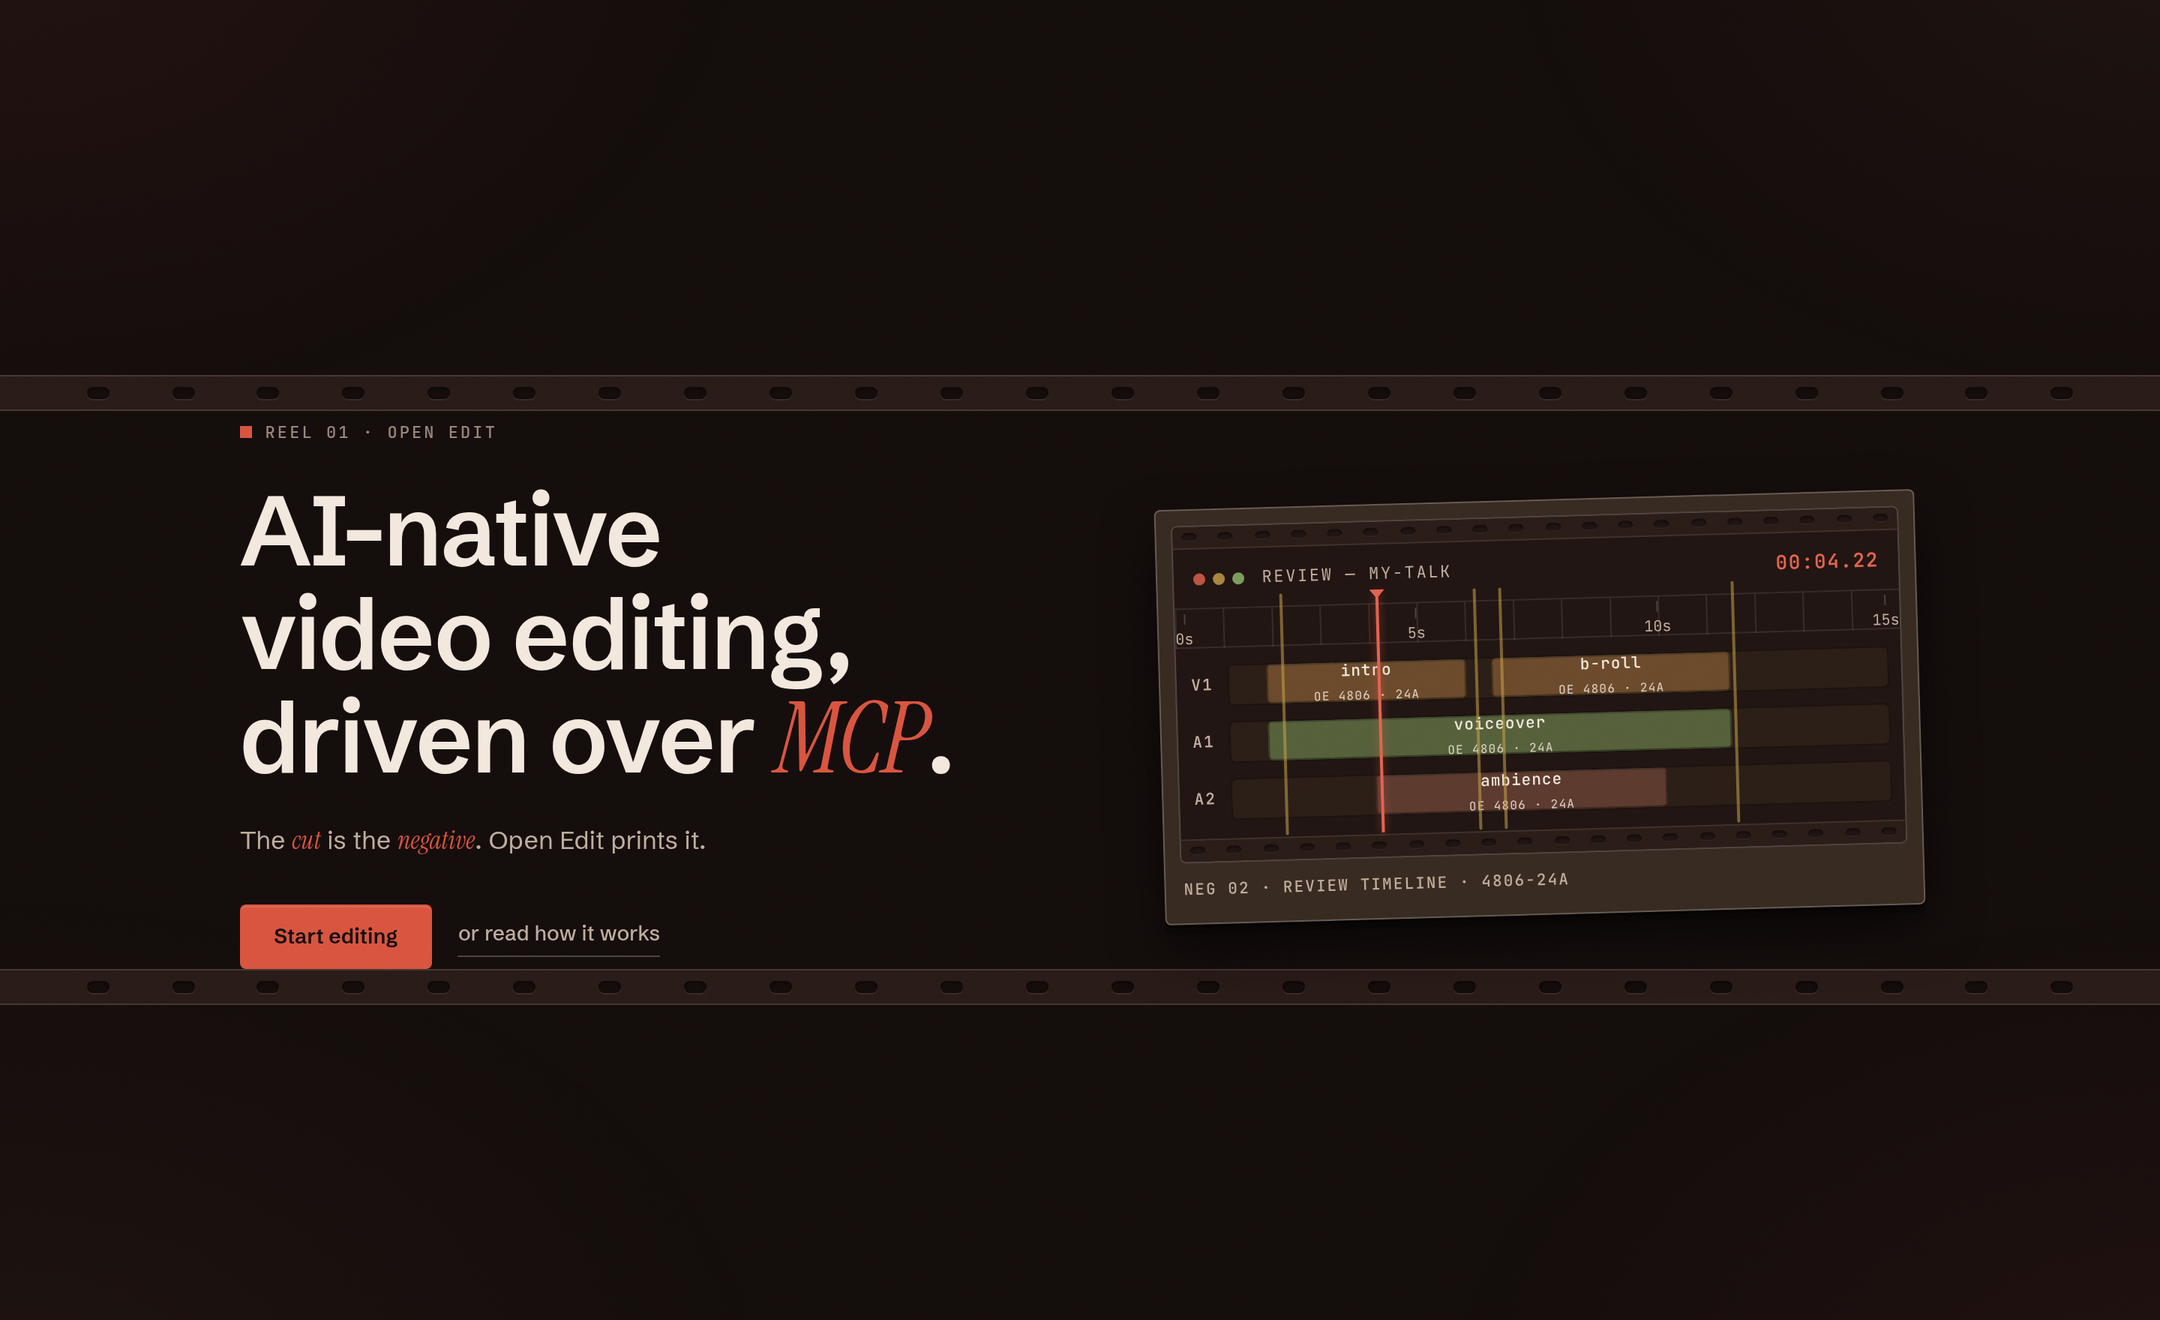
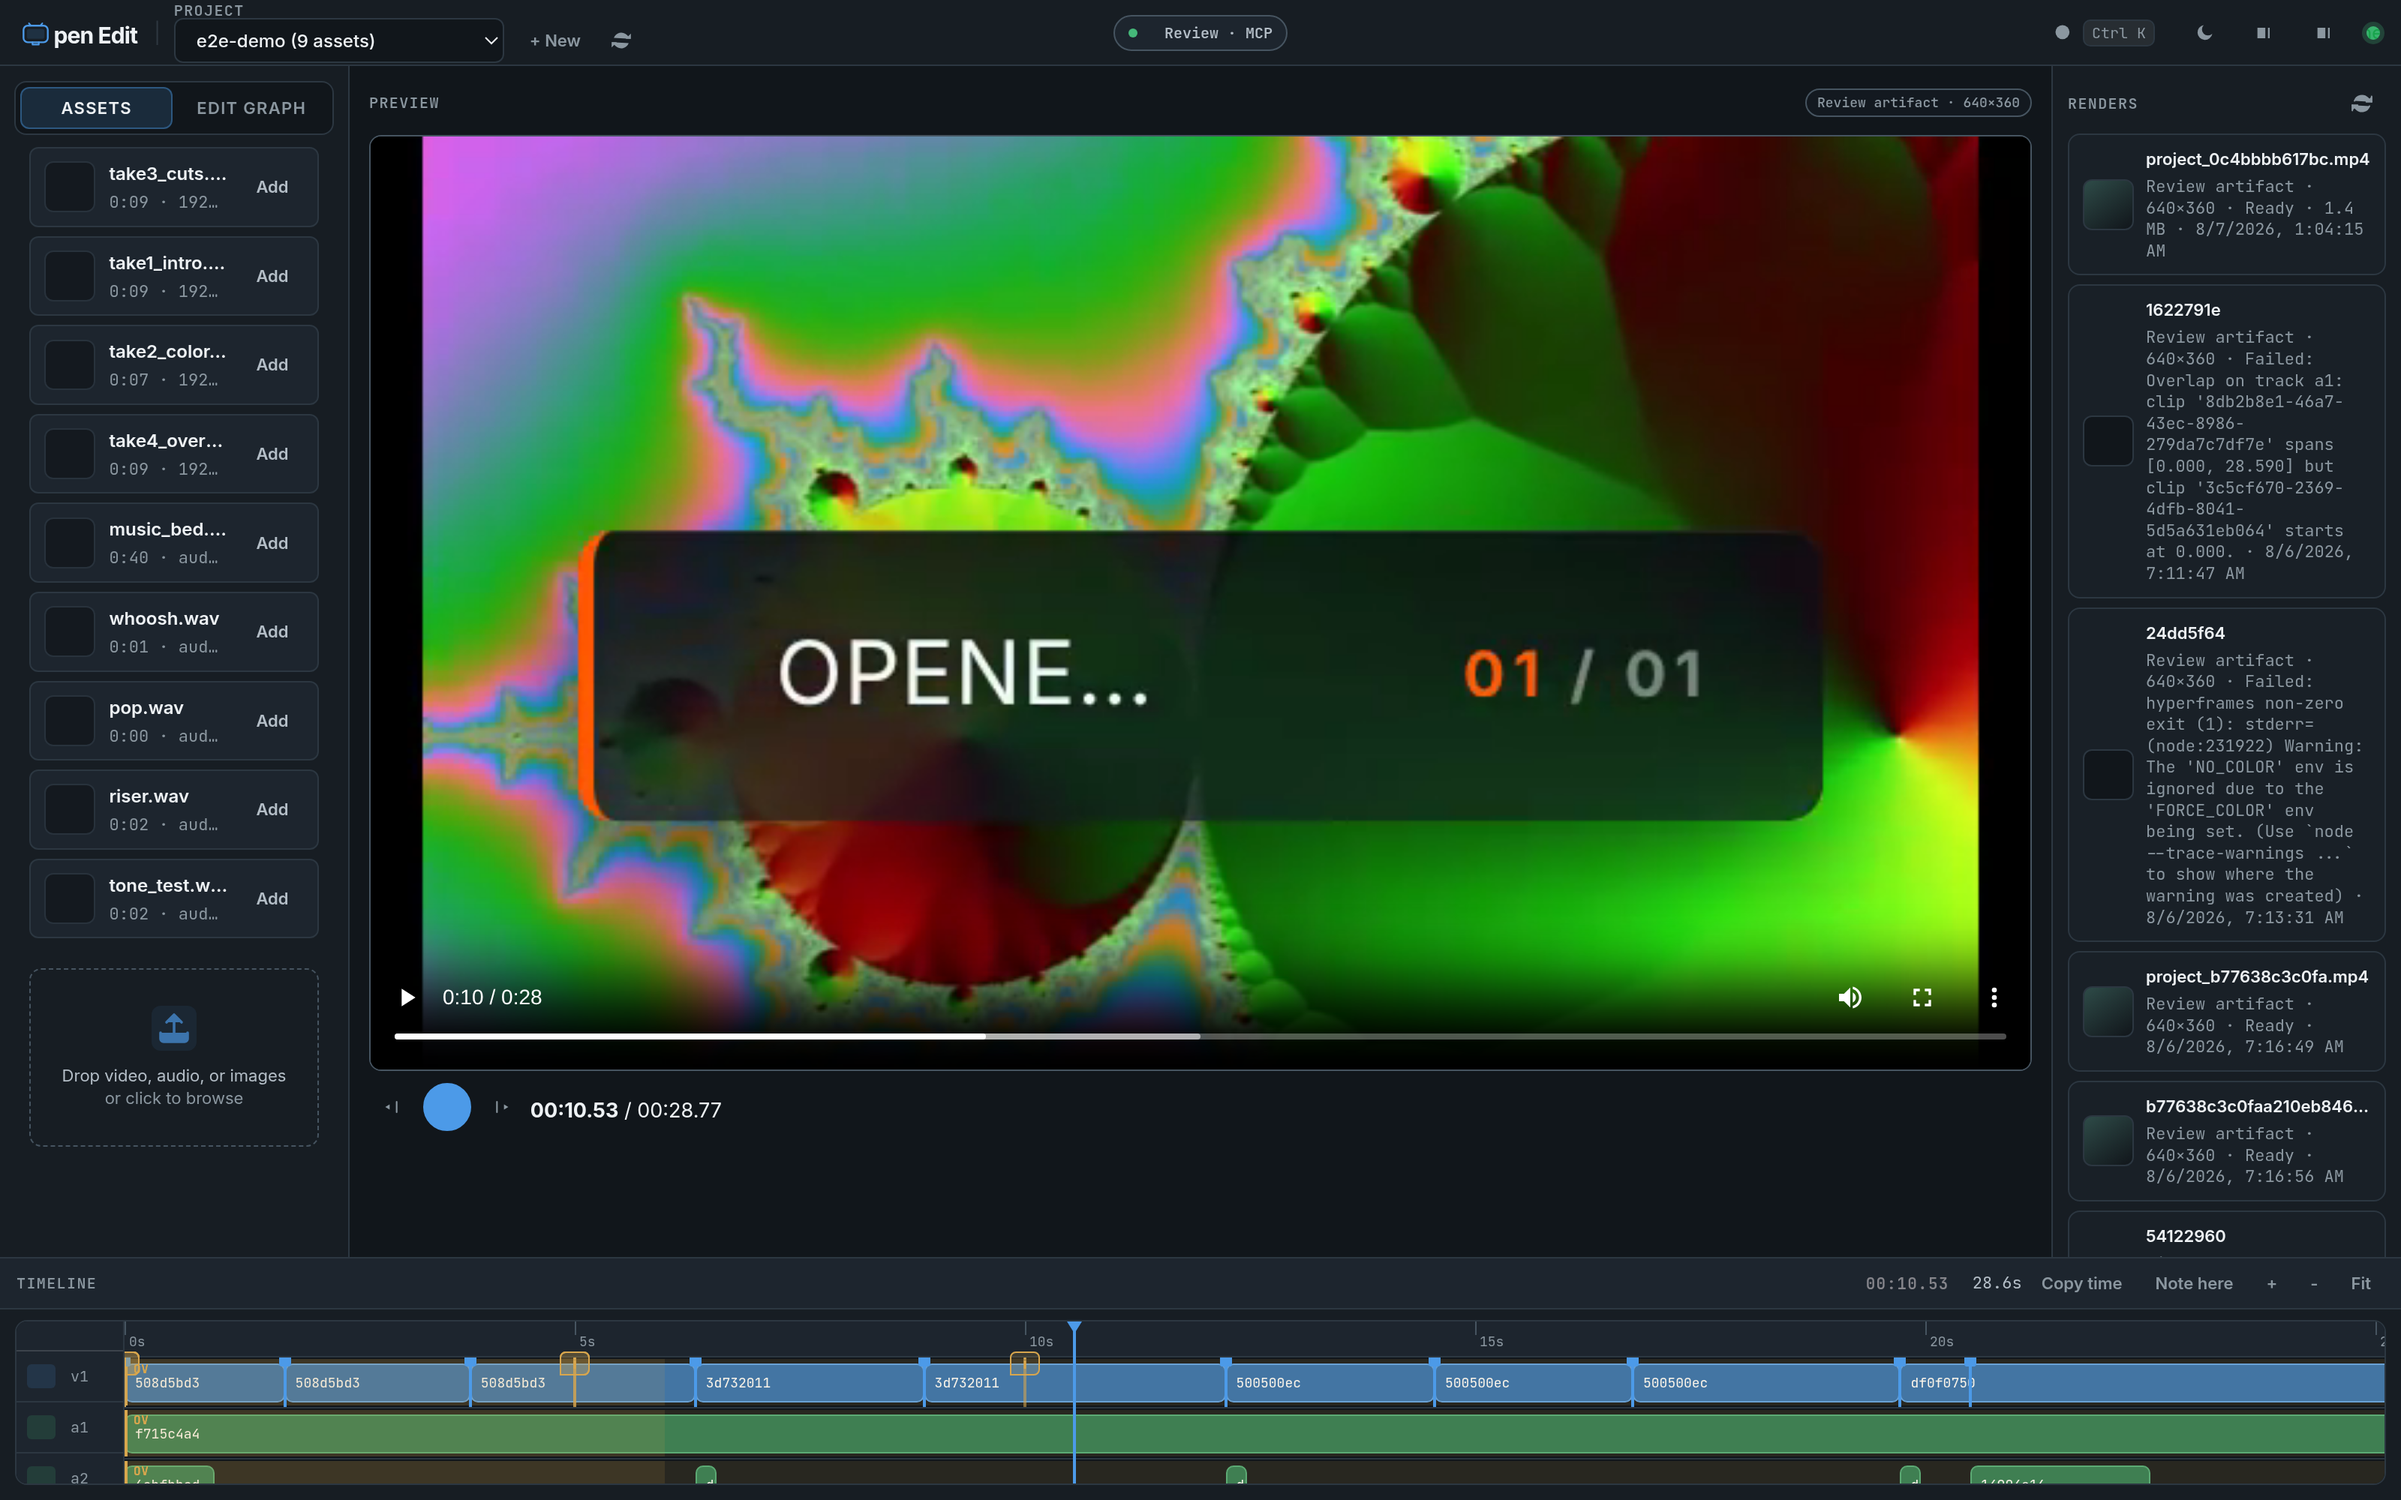
docs: use real product screenshots (Review Studio + timeline) in the README

diff --git a/README.md b/README.md
@@ -7,11 +7,11 @@
 
 **AI-native video editing, driven over MCP.**
 
-![Open Edit](docs/hero-full.png)
-*The product: ingest, word-level transcription, an append-only edit graph, and deterministic renders.*
+![Open Edit Review Studio](docs/hero-full.png)
+*The Review Studio, live: preview a cut, inspect renders, and scrub the edit graph.*
 
-![The timeline, while it opens](docs/hero-timeline.png)
-*The review studio: scrub a 640×360 proxy, leave time-scoped notes, revert ops in the edit graph.*
+![The product timeline](docs/hero-timeline.png)
+*The timeline: clips on V1/A1/A2, edit markers, and a playhead that is ready to scrub.*
 
 ## What it is
 
